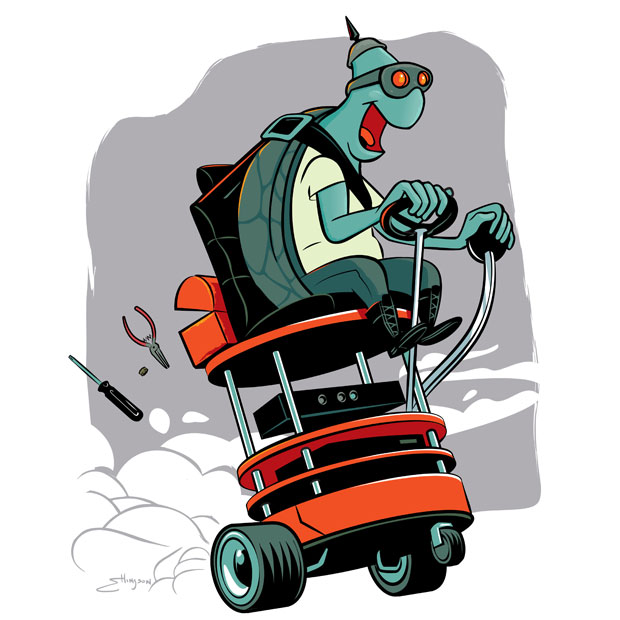
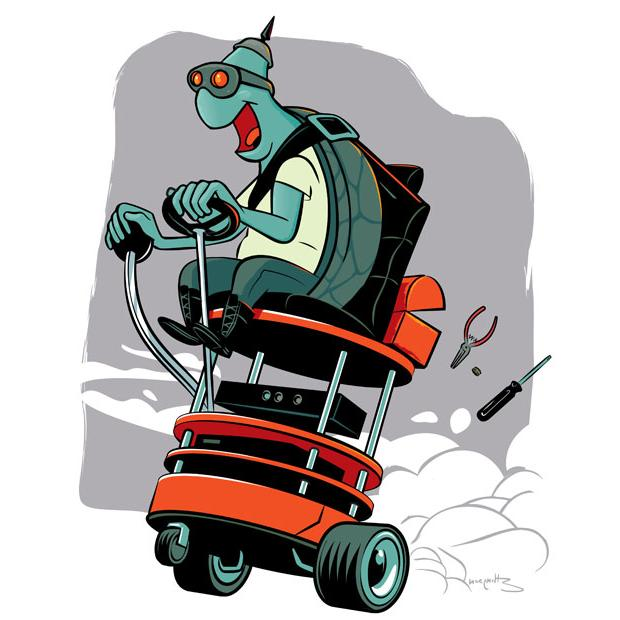
added images related TB3

diff --git a/learn.md b/learn.md
@@ -7,7 +7,7 @@ show_in_nav: true
 
 # TurtleBot3
 
-<img id="tb3" src="{{ site.baseurl }}/assets/images/turtlebot_3.gif" alt="TurtleBot 3" style="width:100%; max-width:1042px;" />
+<img id="tb3" src="{{ site.baseurl }}/assets/images/turtlebot_3_models.png" alt="TurtleBot 3" style="width:50%; max-width:1042px;" />
 
 (Comming soon)
 
@@ -19,9 +19,15 @@ show_in_nav: true
 
 The complete TurtleBot 2 includes a Kobuki base, Microsoft XBOX Kinect, ROS compatible netbook, and factory calibrated gyro.
 
+## Build a TurtleBot 2 from Scratch
+
+You can build a TurtleBot from scratch by purchasing the parts such as netbook, Kinect, and Kobuki separately and following the documentation.
+
+[Download TurtleBot Documentation](http://download.ros.org/downloads/turtlebot/tb2_hardware_docs.tar.gz)
+
 ## Kits for TurtleBot 2
 
-There are several kits avaliable to create a Turtlebot. Check out the distributors' website to find out more.
+There are several kits avaliable to create a Turtlebot. Check out the <a href="{{ site.baseurl }}/partners">distributors' website</a> to find out more.
 
 ## TurtleBot 2e
 
@@ -30,11 +36,6 @@ The TurtleBot 2e is a new revision of the TurtleBot primarily defined by replaci
 Documentation of the TurtleBot2e can be found on github at [turtlebot/turtlebot2e]( https://github.com/turtlebot/turtlebot2e) and you can get it in pdf format [here](https://github.com/turtlebot/turtlebot2e/releases/download/0.0.1/turtlebot2e.pdf).
 
 Dabit Industries is offering the [TurtleBot2e](http://dabit.industries/collections/frontpage/products/turtlebot-2e) and the [TurtleBot2e Accessory Kit](http://dabit.industries/products/turtlebot-2e-sbc-accessories-kit).
-
-## Build TurtleBot 2 from Scratch
-You can build a TurtleBot from scratch by purchasing the parts such as netbook, Kinect, and Kobuki separately and following the documentation.
-
-[Download TurtleBot Documentation](http://download.ros.org/downloads/turtlebot/tb2_hardware_docs.tar.gz)
 
 ## Learn TurtleBot 2 and ROS
 

diff --git a/purchase.md b/purchase.md
@@ -42,11 +42,13 @@ show_in_nav: true
 - <a href="http://www.sensorobots.net/">Sensorobot</a>
 - <a href="http://kobuki.yujinrobot.com/">Yujin Robot</a>
 
-# TB1 (Not Available)
+# TB1
+
+- Not Available
 
 # TurtleBot Distributors
 
-TurtleBot3 Distributor : RED (<img id="pin red" src="{{ site.baseurl }}/assets/images/pin_r.png" alt="" height="32px" />), TurtleBot2 Manufacturer/Distributor : BLUE (<img id="pin blue" src="{{ site.baseurl }}/assets/images/pin_b.png" alt="" height="32px" />)
+TurtleBot3 Distributor: RED (<img id="pin red" src="{{ site.baseurl }}/assets/images/pin_r.png" alt="" height="32px" />), TurtleBot2 Manufacturer/Distributor: BLUE (<img id="pin blue" src="{{ site.baseurl }}/assets/images/pin_b.png" alt="" height="32px" />)
 
 If you want to be added to the map, please visit <a href="{{ site.baseurl }}/partners">here</a> for partner registration.
 

diff --git a/partners.md b/partners.md
@@ -22,3 +22,5 @@ For partnership, please fill out form below.
 - E-mail:
 - Address:
 - Remarks:
+
+(We're making transfer form. :) )
